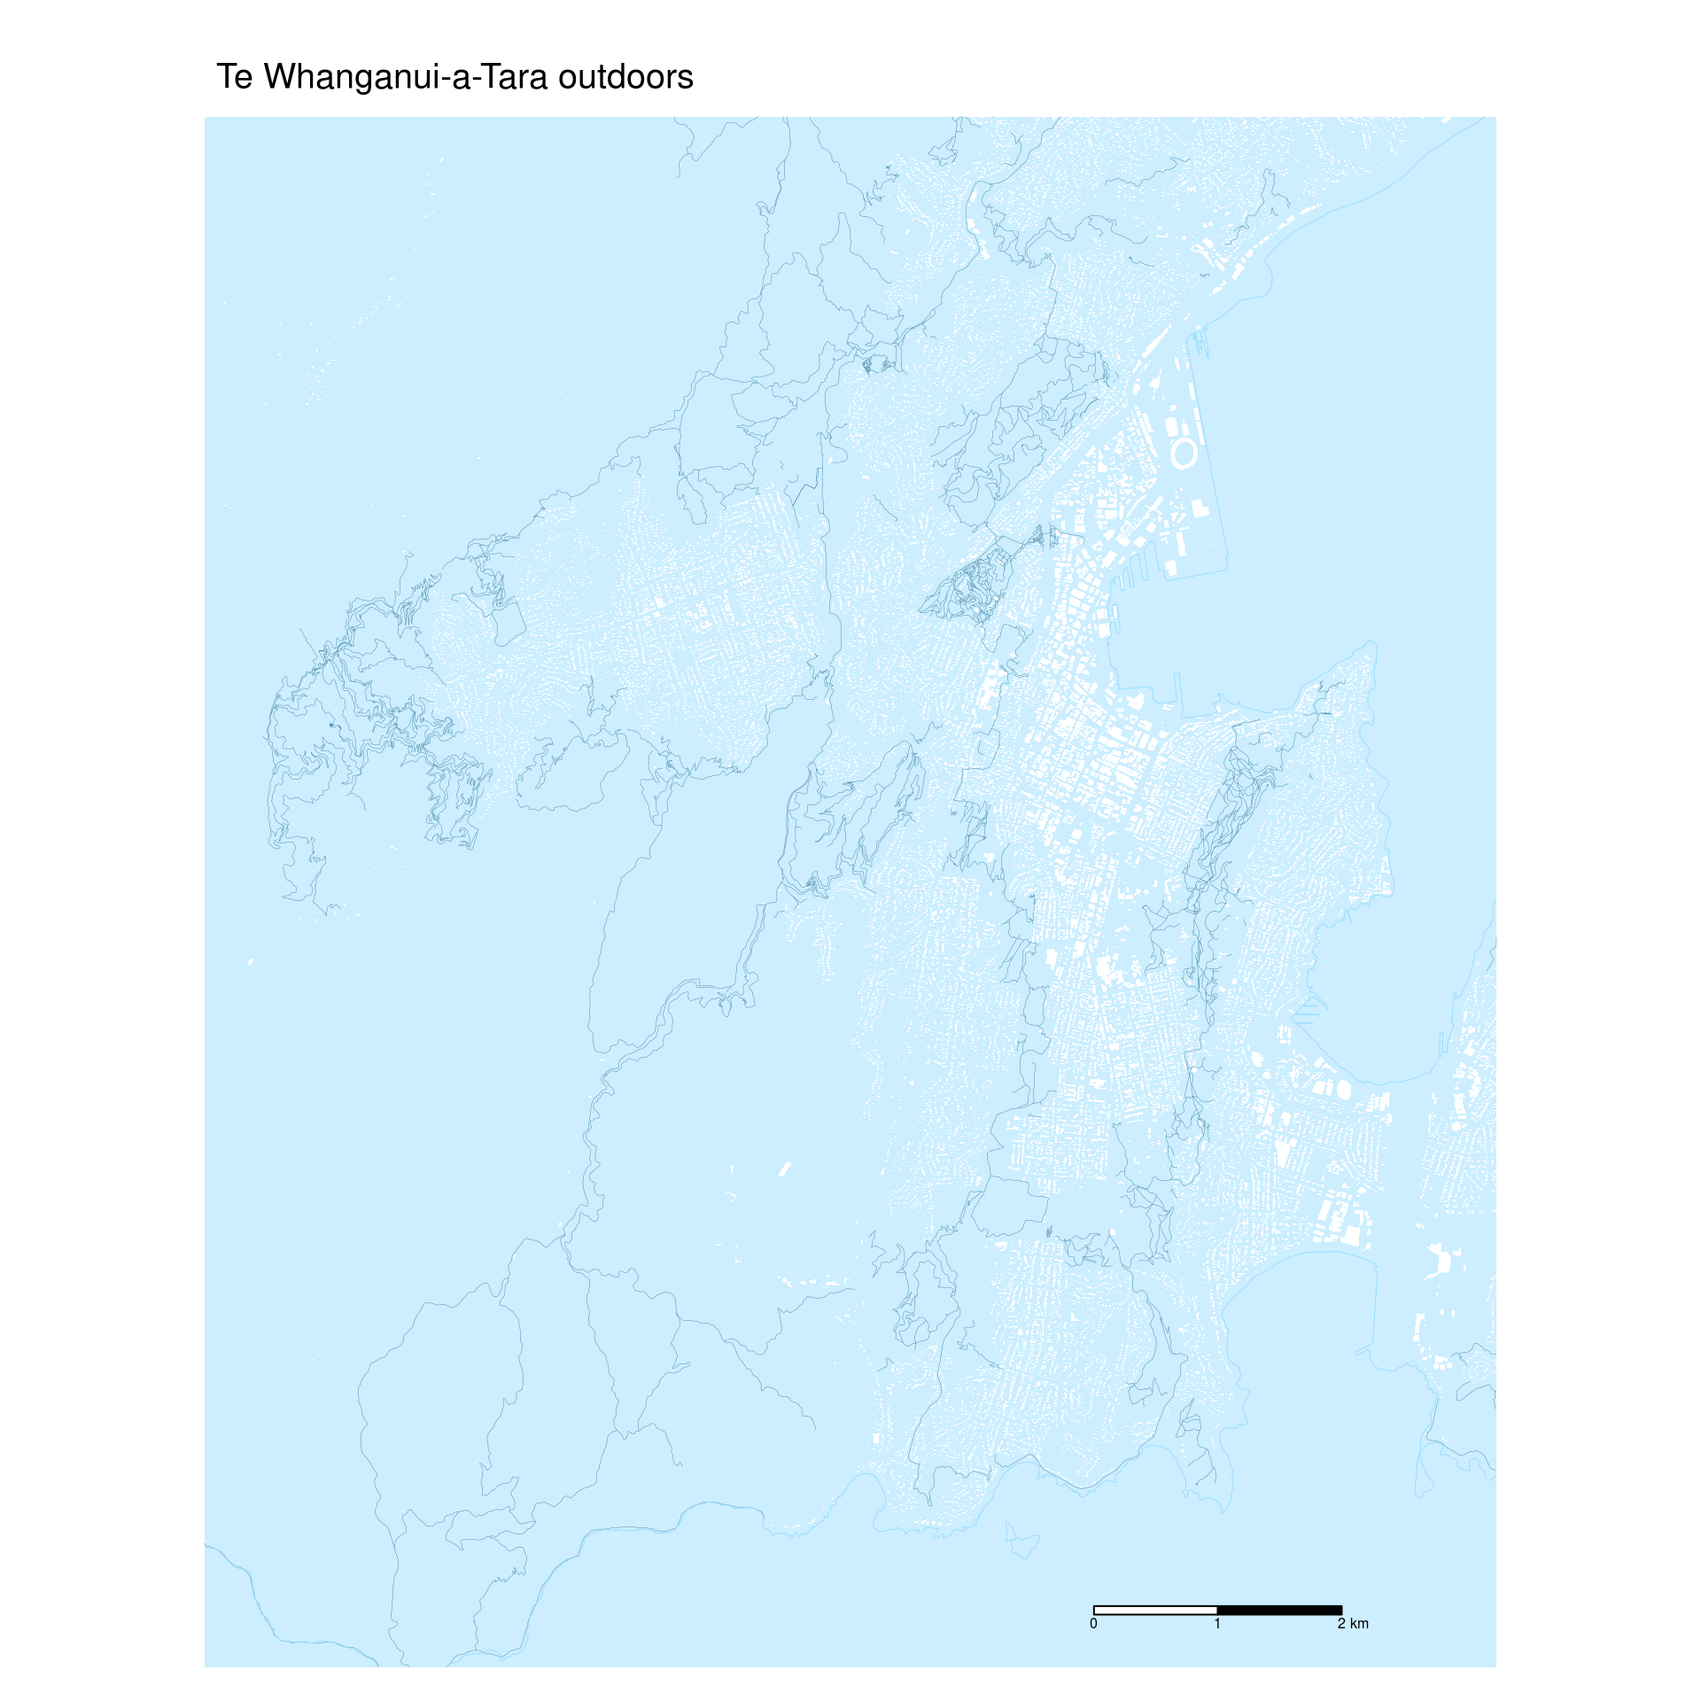
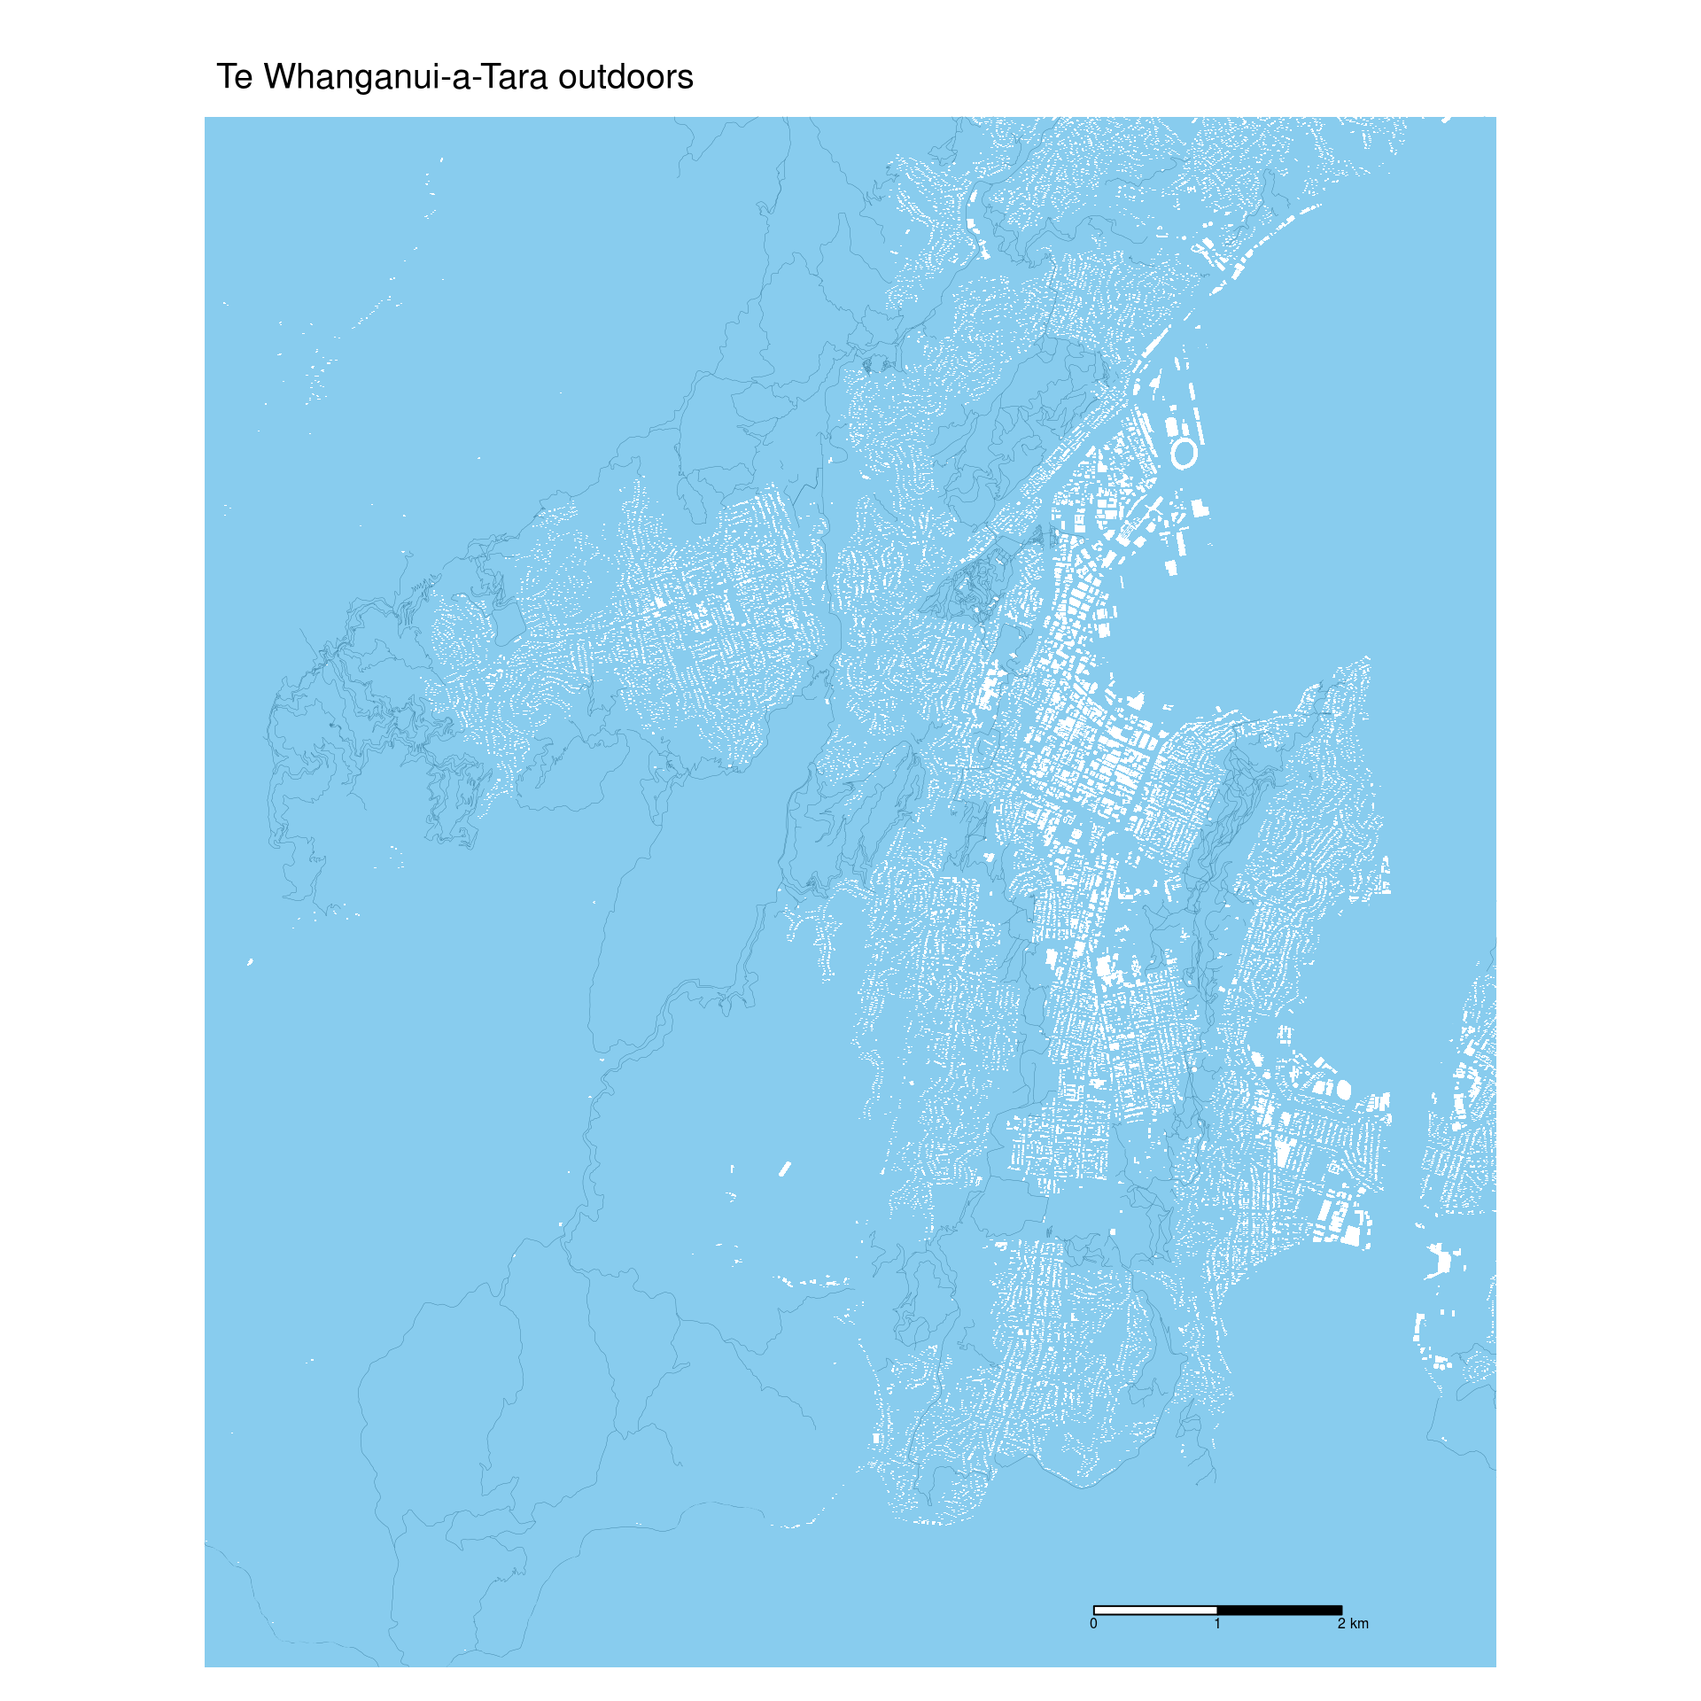
changed the colours in 20 outdoors again

diff --git a/docs/maps/20-outdoors.html b/docs/maps/20-outdoors.html
@@ -321,12 +321,13 @@ pre > code.sourceCode > span > a:first-child::before { text-decoration: underlin
 
 <p>Map of mountains, trails, or something completely different.</p>
 <p>As <a href="../maps/18-atmosphere.html">previously noted</a> much of the outdoors in Wellington is dominated by wind.</p>
-<p>That’s why I’ve used blue for all of the space outside the buildings in these maps. The visual inspiration is machine space</p>
+<p>That’s why I’ve used a pale blue for all of the space outside the buildings in these maps. The visual inspiration is machine space</p>
 <blockquote class="blockquote">
 <p>Horvath RJ. <a href="https://www.csun.edu/~rdavids/350fall08/350readings/Horvath%20Machine%20space.pdf">Machine space</a>. Geographical Review <strong>64</strong>(2) 167-188.</p>
 </blockquote>
 <p>but inverted. Of course, a lot of the ‘open’ space here is also machine space (given over to cars), but still, it’s fun to look a the built environment in this way.</p>
 <p>The buildings are from <a href="https://data.linz.govt.nz/layer/101290-nz-building-outlines/">Te Toitū Whenua - Land Information New Zealand</a>. Tracks are <a href="https://catalogue.data.govt.nz/dataset/wcc-tracks4">from Wellington City Council</a>.</p>
+<p>But the point is, that the buildings aren’t the spatial dataset here: <code>outdoors.gpkg</code> is a rectangle of the extent of the map with holes where the buildings (the ‘indoors’) are. So it’s a ‘outdoors’ polygon. You can’t really tell that from the map, but the white areas are the background colour showing through the holes.</p>
 <section id="libraries" class="level2">
 <h2 class="anchored" data-anchor-id="libraries">Libraries</h2>
 <div class="cell" data-hash="20-outdoors_cache/html/unnamed-chunk-1_7350f84f1ce55e78e95e3c78ba112e6c">
@@ -353,13 +354,13 @@ pre > code.sourceCode > span > a:first-child::before { text-decoration: underlin
 <h2 class="anchored" data-anchor-id="the-maps">The maps</h2>
 <section id="tmap" class="level3">
 <h3 class="anchored" data-anchor-id="tmap"><code>tmap</code></h3>
-<div class="cell" data-hash="20-outdoors_cache/html/unnamed-chunk-3_64fd069d3423a6c037f69b8891849b6d">
+<div class="cell" data-hash="20-outdoors_cache/html/unnamed-chunk-3_6368d6fd63b2d96e06888272ce248c02">
 <div class="sourceCode cell-code" id="cb3"><pre class="sourceCode r code-with-copy"><code class="sourceCode r"><span id="cb3-1"><a href="#cb3-1" aria-hidden="true" tabindex="-1"></a><span class="fu">tm_shape</span>(outdoors) <span class="sc">+</span></span>
-<span id="cb3-2"><a href="#cb3-2" aria-hidden="true" tabindex="-1"></a>  <span class="fu">tm_fill</span>(<span class="at">fill =</span> <span class="st">"#99ddff"</span>, <span class="at">fill_alpha =</span> <span class="fl">0.5</span>) <span class="sc">+</span></span>
+<span id="cb3-2"><a href="#cb3-2" aria-hidden="true" tabindex="-1"></a>  <span class="fu">tm_fill</span>(<span class="at">fill =</span> <span class="st">"#88ccee"</span>) <span class="sc">+</span></span>
 <span id="cb3-3"><a href="#cb3-3" aria-hidden="true" tabindex="-1"></a>  <span class="fu">tm_shape</span>(tracks) <span class="sc">+</span></span>
 <span id="cb3-4"><a href="#cb3-4" aria-hidden="true" tabindex="-1"></a>  <span class="fu">tm_lines</span>(<span class="at">col =</span> <span class="st">"#337799"</span>, <span class="at">lwd =</span> <span class="fl">0.2</span>) <span class="sc">+</span></span>
 <span id="cb3-5"><a href="#cb3-5" aria-hidden="true" tabindex="-1"></a>  <span class="fu">tm_shape</span>(coast) <span class="sc">+</span></span>
-<span id="cb3-6"><a href="#cb3-6" aria-hidden="true" tabindex="-1"></a>  <span class="fu">tm_lines</span>(<span class="at">col =</span> <span class="st">"#99ddff"</span>, <span class="at">lwd =</span> <span class="fl">0.5</span>) <span class="sc">+</span></span>
+<span id="cb3-6"><a href="#cb3-6" aria-hidden="true" tabindex="-1"></a>  <span class="fu">tm_lines</span>(<span class="at">col =</span> <span class="st">"#88ccee"</span>, <span class="at">lwd =</span> <span class="fl">0.5</span>) <span class="sc">+</span></span>
 <span id="cb3-7"><a href="#cb3-7" aria-hidden="true" tabindex="-1"></a>  <span class="fu">tm_scalebar</span>() <span class="sc">+</span></span>
 <span id="cb3-8"><a href="#cb3-8" aria-hidden="true" tabindex="-1"></a>  <span class="fu">tm_title</span>(<span class="st">"Te Whanganui-a-Tara outdoors"</span>,</span>
 <span id="cb3-9"><a href="#cb3-9" aria-hidden="true" tabindex="-1"></a>    <span class="at">position =</span> <span class="fu">tm_pos_out</span>(</span>
@@ -378,22 +379,21 @@ pre > code.sourceCode > span > a:first-child::before { text-decoration: underlin
 </section>
 <section id="ggplot2" class="level2">
 <h2 class="anchored" data-anchor-id="ggplot2"><code>ggplot2</code></h2>
-<div class="cell" data-hash="20-outdoors_cache/html/unnamed-chunk-4_0e6c2f0b39aabb7bc448aa5d5b19024b">
+<div class="cell" data-hash="20-outdoors_cache/html/unnamed-chunk-4_1a5daeeba390829149944c2725d8f943">
 <div class="sourceCode cell-code" id="cb4"><pre class="sourceCode r code-with-copy"><code class="sourceCode r"><span id="cb4-1"><a href="#cb4-1" aria-hidden="true" tabindex="-1"></a><span class="fu">library</span>(ggspatial)</span>
 <span id="cb4-2"><a href="#cb4-2" aria-hidden="true" tabindex="-1"></a></span>
 <span id="cb4-3"><a href="#cb4-3" aria-hidden="true" tabindex="-1"></a><span class="fu">ggplot</span>() <span class="sc">+</span></span>
-<span id="cb4-4"><a href="#cb4-4" aria-hidden="true" tabindex="-1"></a>  <span class="fu">geom_sf</span>(<span class="at">data =</span> outdoors, <span class="at">fill =</span> <span class="st">"#99ddff"</span>, </span>
-<span id="cb4-5"><a href="#cb4-5" aria-hidden="true" tabindex="-1"></a>          <span class="at">alpha =</span> <span class="fl">0.5</span>, <span class="at">linewidth =</span> <span class="dv">0</span>) <span class="sc">+</span></span>
-<span id="cb4-6"><a href="#cb4-6" aria-hidden="true" tabindex="-1"></a>  <span class="fu">geom_sf</span>(<span class="at">data =</span> tracks, <span class="at">colour =</span> <span class="st">"#337799"</span>, </span>
-<span id="cb4-7"><a href="#cb4-7" aria-hidden="true" tabindex="-1"></a>          <span class="at">linewidth =</span> <span class="fl">0.2</span> <span class="sc">*</span> <span class="fl">25.4</span> <span class="sc">/</span> <span class="fl">72.27</span>) <span class="sc">+</span></span>
-<span id="cb4-8"><a href="#cb4-8" aria-hidden="true" tabindex="-1"></a>  <span class="fu">geom_sf</span>(<span class="at">data =</span> coast, <span class="at">colour =</span> <span class="st">"#99ddff"</span>,</span>
-<span id="cb4-9"><a href="#cb4-9" aria-hidden="true" tabindex="-1"></a>          <span class="at">linewidth =</span> <span class="fl">0.5</span> <span class="sc">*</span> <span class="fl">25.4</span> <span class="sc">/</span> <span class="fl">72.27</span>) <span class="sc">+</span></span>
-<span id="cb4-10"><a href="#cb4-10" aria-hidden="true" tabindex="-1"></a>  <span class="fu">coord_sf</span>(<span class="at">xlim =</span> <span class="fu">st_bbox</span>(outdoors)[<span class="fu">c</span>(<span class="dv">1</span>, <span class="dv">3</span>)],</span>
-<span id="cb4-11"><a href="#cb4-11" aria-hidden="true" tabindex="-1"></a>           <span class="at">ylim =</span> <span class="fu">st_bbox</span>(outdoors)[<span class="fu">c</span>(<span class="dv">2</span>, <span class="dv">4</span>)],</span>
-<span id="cb4-12"><a href="#cb4-12" aria-hidden="true" tabindex="-1"></a>           <span class="at">expand =</span> <span class="cn">FALSE</span>) <span class="sc">+</span></span>
-<span id="cb4-13"><a href="#cb4-13" aria-hidden="true" tabindex="-1"></a>  <span class="fu">annotation_scale</span>() <span class="sc">+</span></span>
-<span id="cb4-14"><a href="#cb4-14" aria-hidden="true" tabindex="-1"></a>  <span class="fu">ggtitle</span>(<span class="st">"Te Whanganui-a-Tara outdoors"</span>) <span class="sc">+</span></span>
-<span id="cb4-15"><a href="#cb4-15" aria-hidden="true" tabindex="-1"></a>  <span class="fu">theme_void</span>()</span></code><button title="Copy to Clipboard" class="code-copy-button"><i class="bi"></i></button></pre></div>
+<span id="cb4-4"><a href="#cb4-4" aria-hidden="true" tabindex="-1"></a>  <span class="fu">geom_sf</span>(<span class="at">data =</span> outdoors, <span class="at">fill =</span> <span class="st">"#88ccee"</span>, <span class="at">linewidth =</span> <span class="dv">0</span>) <span class="sc">+</span></span>
+<span id="cb4-5"><a href="#cb4-5" aria-hidden="true" tabindex="-1"></a>  <span class="fu">geom_sf</span>(<span class="at">data =</span> tracks, <span class="at">colour =</span> <span class="st">"#337799"</span>, </span>
+<span id="cb4-6"><a href="#cb4-6" aria-hidden="true" tabindex="-1"></a>          <span class="at">linewidth =</span> <span class="fl">0.2</span> <span class="sc">*</span> <span class="fl">25.4</span> <span class="sc">/</span> <span class="fl">72.27</span>) <span class="sc">+</span></span>
+<span id="cb4-7"><a href="#cb4-7" aria-hidden="true" tabindex="-1"></a>  <span class="fu">geom_sf</span>(<span class="at">data =</span> coast, <span class="at">colour =</span> <span class="st">"#88ccee"</span>,</span>
+<span id="cb4-8"><a href="#cb4-8" aria-hidden="true" tabindex="-1"></a>          <span class="at">linewidth =</span> <span class="fl">0.5</span> <span class="sc">*</span> <span class="fl">25.4</span> <span class="sc">/</span> <span class="fl">72.27</span>) <span class="sc">+</span></span>
+<span id="cb4-9"><a href="#cb4-9" aria-hidden="true" tabindex="-1"></a>  <span class="fu">coord_sf</span>(<span class="at">xlim =</span> <span class="fu">st_bbox</span>(outdoors)[<span class="fu">c</span>(<span class="dv">1</span>, <span class="dv">3</span>)],</span>
+<span id="cb4-10"><a href="#cb4-10" aria-hidden="true" tabindex="-1"></a>           <span class="at">ylim =</span> <span class="fu">st_bbox</span>(outdoors)[<span class="fu">c</span>(<span class="dv">2</span>, <span class="dv">4</span>)],</span>
+<span id="cb4-11"><a href="#cb4-11" aria-hidden="true" tabindex="-1"></a>           <span class="at">expand =</span> <span class="cn">FALSE</span>) <span class="sc">+</span></span>
+<span id="cb4-12"><a href="#cb4-12" aria-hidden="true" tabindex="-1"></a>  <span class="fu">annotation_scale</span>() <span class="sc">+</span></span>
+<span id="cb4-13"><a href="#cb4-13" aria-hidden="true" tabindex="-1"></a>  <span class="fu">ggtitle</span>(<span class="st">"Te Whanganui-a-Tara outdoors"</span>) <span class="sc">+</span></span>
+<span id="cb4-14"><a href="#cb4-14" aria-hidden="true" tabindex="-1"></a>  <span class="fu">theme_void</span>()</span></code><button title="Copy to Clipboard" class="code-copy-button"><i class="bi"></i></button></pre></div>
 <div class="cell-output-display">
 <div class="quarto-figure quarto-figure-center">
 <figure class="figure">
@@ -653,7 +653,7 @@ window.document.addEventListener("DOMContentLoaded", function (event) {
   </div>
 </nav>
 </div> <!-- /content -->
-<script>var lightboxQuarto = GLightbox({"descPosition":"bottom","selector":".lightbox","openEffect":"zoom","closeEffect":"zoom","loop":true});</script>
+<script>var lightboxQuarto = GLightbox({"loop":true,"closeEffect":"zoom","descPosition":"bottom","openEffect":"zoom","selector":".lightbox"});</script>
 
 
 

diff --git a/docs/index.html b/docs/index.html
@@ -690,7 +690,7 @@ Spend no more than 5 minutes to prepare this map.
 </div>
 </a>
 </div>
-<div class="g-col-1" data-index="19" data-listing-file-modified-sort="1700420092233" data-listing-reading-time-sort="2">
+<div class="g-col-1" data-index="19" data-listing-file-modified-sort="1700421142555" data-listing-reading-time-sort="2">
 <a href="./maps/20-outdoors.html" class="quarto-grid-link">
 <div class="quarto-grid-item card h-100 card-left">
 <p class="card-img-top"><img src="maps/20-outdoors_files/figure-html/unnamed-chunk-3-1.png" style="height: 150px;"  class="thumbnail-image card-img"/></p>

diff --git a/docs/maps/01-points.html b/docs/maps/01-points.html
@@ -685,7 +685,7 @@ window.document.addEventListener("DOMContentLoaded", function (event) {
   </div>
 </nav>
 </div> <!-- /content -->
-<script>var lightboxQuarto = GLightbox({"openEffect":"zoom","selector":".lightbox","loop":true,"descPosition":"bottom","closeEffect":"zoom"});</script>
+<script>var lightboxQuarto = GLightbox({"closeEffect":"zoom","loop":true,"descPosition":"bottom","openEffect":"zoom","selector":".lightbox"});</script>
 
 
 

diff --git a/docs/maps/02-lines.html b/docs/maps/02-lines.html
@@ -647,7 +647,7 @@ window.document.addEventListener("DOMContentLoaded", function (event) {
   </div>
 </nav>
 </div> <!-- /content -->
-<script>var lightboxQuarto = GLightbox({"descPosition":"bottom","selector":".lightbox","closeEffect":"zoom","loop":true,"openEffect":"zoom"});</script>
+<script>var lightboxQuarto = GLightbox({"descPosition":"bottom","selector":".lightbox","loop":true,"openEffect":"zoom","closeEffect":"zoom"});</script>
 
 
 

diff --git a/docs/maps/03-polygons.html b/docs/maps/03-polygons.html
@@ -648,7 +648,7 @@ window.document.addEventListener("DOMContentLoaded", function (event) {
   </div>
 </nav>
 </div> <!-- /content -->
-<script>var lightboxQuarto = GLightbox({"descPosition":"bottom","loop":true,"openEffect":"zoom","closeEffect":"zoom","selector":".lightbox"});</script>
+<script>var lightboxQuarto = GLightbox({"loop":true,"selector":".lightbox","closeEffect":"zoom","descPosition":"bottom","openEffect":"zoom"});</script>
 
 
 

diff --git a/docs/maps/04-bad-map.html b/docs/maps/04-bad-map.html
@@ -656,7 +656,7 @@ window.document.addEventListener("DOMContentLoaded", function (event) {
   </div>
 </nav>
 </div> <!-- /content -->
-<script>var lightboxQuarto = GLightbox({"loop":true,"openEffect":"zoom","selector":".lightbox","closeEffect":"zoom","descPosition":"bottom"});</script>
+<script>var lightboxQuarto = GLightbox({"loop":true,"selector":".lightbox","openEffect":"zoom","closeEffect":"zoom","descPosition":"bottom"});</script>
 
 
 

diff --git a/docs/maps/05-analog-map.html b/docs/maps/05-analog-map.html
@@ -642,7 +642,7 @@ window.document.addEventListener("DOMContentLoaded", function (event) {
   </div>
 </nav>
 </div> <!-- /content -->
-<script>var lightboxQuarto = GLightbox({"closeEffect":"zoom","selector":".lightbox","descPosition":"bottom","loop":true,"openEffect":"zoom"});</script>
+<script>var lightboxQuarto = GLightbox({"descPosition":"bottom","closeEffect":"zoom","loop":true,"selector":".lightbox","openEffect":"zoom"});</script>
 
 
 

diff --git a/docs/maps/06-asia.html b/docs/maps/06-asia.html
@@ -656,7 +656,7 @@ window.document.addEventListener("DOMContentLoaded", function (event) {
   </div>
 </nav>
 </div> <!-- /content -->
-<script>var lightboxQuarto = GLightbox({"loop":true,"selector":".lightbox","descPosition":"bottom","openEffect":"zoom","closeEffect":"zoom"});</script>
+<script>var lightboxQuarto = GLightbox({"selector":".lightbox","loop":true,"descPosition":"bottom","closeEffect":"zoom","openEffect":"zoom"});</script>
 
 
 

diff --git a/docs/maps/07-navigation.html b/docs/maps/07-navigation.html
@@ -703,7 +703,7 @@ window.document.addEventListener("DOMContentLoaded", function (event) {
   </div>
 </nav>
 </div> <!-- /content -->
-<script>var lightboxQuarto = GLightbox({"openEffect":"zoom","selector":".lightbox","descPosition":"bottom","loop":true,"closeEffect":"zoom"});</script>
+<script>var lightboxQuarto = GLightbox({"selector":".lightbox","descPosition":"bottom","closeEffect":"zoom","loop":true,"openEffect":"zoom"});</script>
 
 
 

diff --git a/docs/maps/08-africa.html b/docs/maps/08-africa.html
@@ -648,7 +648,7 @@ window.document.addEventListener("DOMContentLoaded", function (event) {
   </div>
 </nav>
 </div> <!-- /content -->
-<script>var lightboxQuarto = GLightbox({"selector":".lightbox","descPosition":"bottom","loop":true,"closeEffect":"zoom","openEffect":"zoom"});</script>
+<script>var lightboxQuarto = GLightbox({"loop":true,"closeEffect":"zoom","descPosition":"bottom","openEffect":"zoom","selector":".lightbox"});</script>
 
 
 

diff --git a/docs/maps/09-hexes.html b/docs/maps/09-hexes.html
@@ -693,7 +693,7 @@ window.document.addEventListener("DOMContentLoaded", function (event) {
   </div>
 </nav>
 </div> <!-- /content -->
-<script>var lightboxQuarto = GLightbox({"loop":true,"selector":".lightbox","closeEffect":"zoom","openEffect":"zoom","descPosition":"bottom"});</script>
+<script>var lightboxQuarto = GLightbox({"selector":".lightbox","closeEffect":"zoom","descPosition":"bottom","openEffect":"zoom","loop":true});</script>
 
 
 

diff --git a/docs/maps/10-north-america.html b/docs/maps/10-north-america.html
@@ -644,7 +644,7 @@ window.document.addEventListener("DOMContentLoaded", function (event) {
   </div>
 </nav>
 </div> <!-- /content -->
-<script>var lightboxQuarto = GLightbox({"openEffect":"zoom","selector":".lightbox","loop":true,"closeEffect":"zoom","descPosition":"bottom"});</script>
+<script>var lightboxQuarto = GLightbox({"openEffect":"zoom","selector":".lightbox","closeEffect":"zoom","descPosition":"bottom","loop":true});</script>
 
 
 
